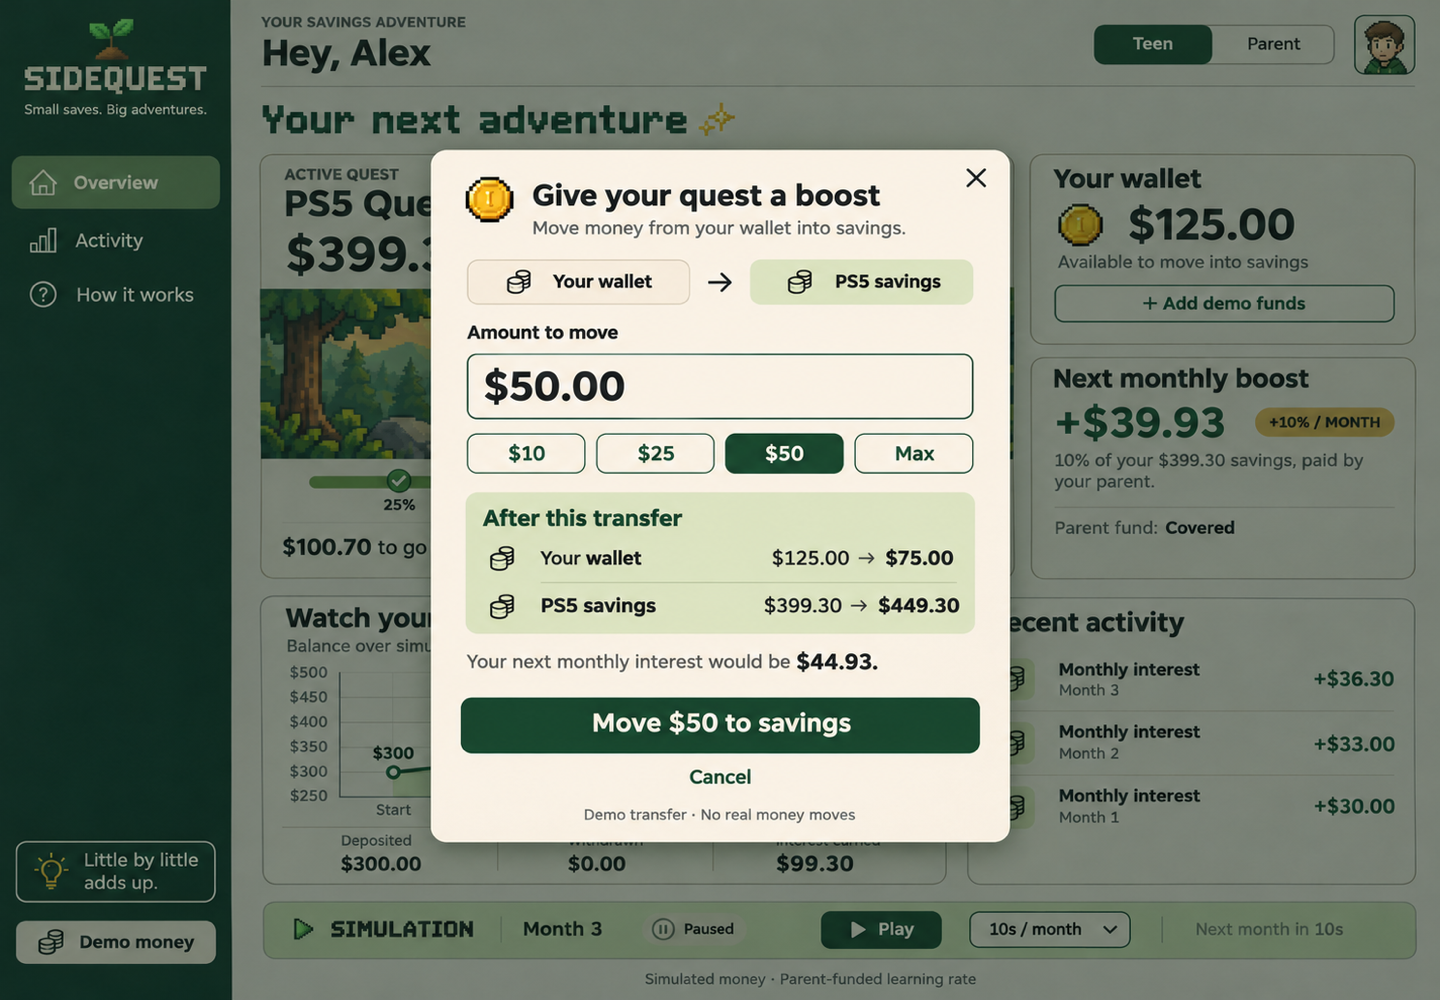
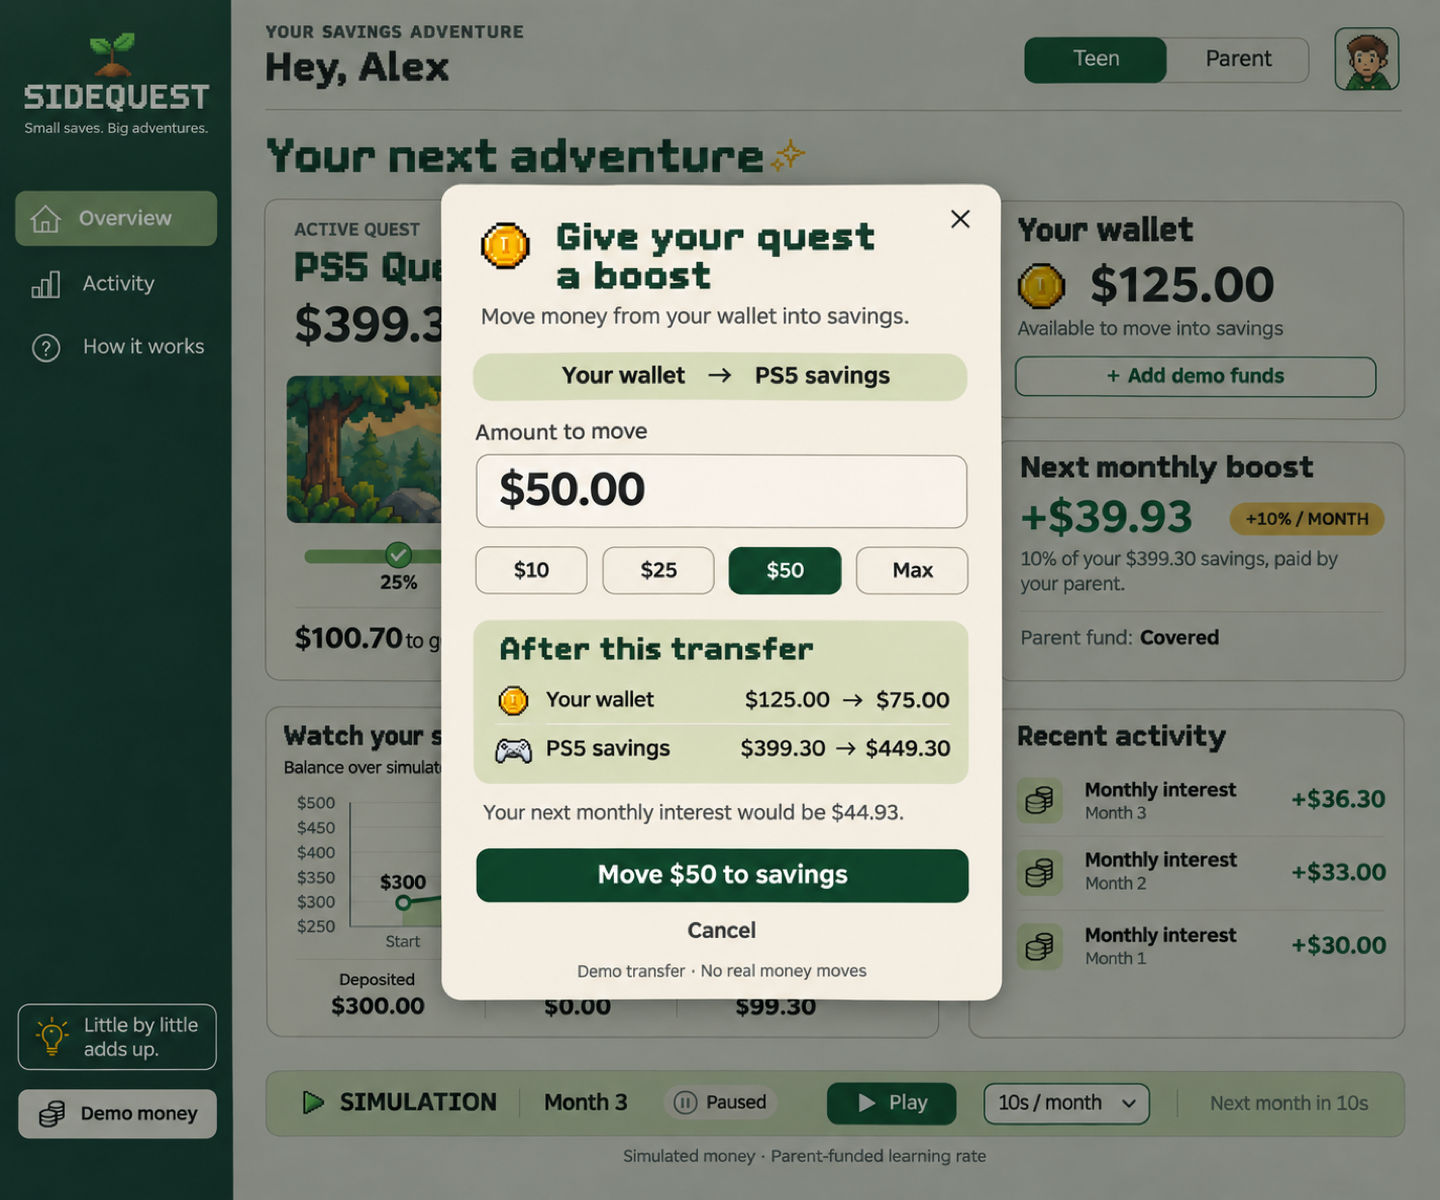
design: refine dashboard spacing and 8-bit heading hierarchy

diff --git a/design/index.html b/design/index.html
@@ -22,7 +22,7 @@
     .meta { color: #64705f; font-size: 12px; }
     .frame { display: block; border: 1px solid #bcc1b0; border-radius: 8px; overflow: hidden; background: #f5f2e9; box-shadow: 0 5px 16px #233f3509; }
     a:focus-visible { outline: 3px solid #233f35; outline-offset: 4px; }
-    img { display: block; width: 100%; height: auto; aspect-ratio: 1440/1000; }
+    img { display: block; width: 100%; height: auto; aspect-ratio: 1440/1200; }
     .note { margin: 9px 0 0; color: #59645a; font-size: 12px; line-height: 1.5; }
     footer { display: flex; justify-content: space-between; gap: 20px; border-top: 1px solid #c7ccbd; margin-top: 25px; padding-top: 16px; font-size: 12px; color: #64705f; }
     footer a { color: inherit; }
@@ -34,31 +34,31 @@
   <main>
     <header>
       <div>
-        <p class="eyebrow">SIDEQUEST / DESIGN EXPLORATION 01</p>
+        <p class="eyebrow">SIDEQUEST / DESIGN EXPLORATION 02</p>
         <h1>Small saves. Big adventures.</h1>
         <p class="subtitle">Cozy pixel adventures for teens. A clear financial overview for parents.</p>
       </div>
-      <div class="chips"><span class="chip">Cozy hybrid</span><span class="chip">1440 × 1000 frames</span><span class="chip">Static concepts</span></div>
+      <div class="chips"><span class="chip">Cozy hybrid</span><span class="chip">1440 × 1200 frames</span><span class="chip">Static concepts</span></div>
     </header>
     <section class="grid" aria-label="Four design frames">
       <figure>
         <figcaption><h2>01 / Teen dashboard</h2><span class="meta">Month 3 · Overview</span></figcaption>
-        <a class="frame" href="frames/01-teen-dashboard.png" aria-label="Open full-size teen dashboard"><img src="frames/01-teen-dashboard.png" alt="Teen savings dashboard with PS5 quest, forest artwork, $399.30 saved, $125 wallet, growth chart and simulation controls." width="1440" height="1000"></a>
+        <a class="frame" href="frames/01-teen-dashboard.png" aria-label="Open full-size teen dashboard"><img src="frames/01-teen-dashboard.png" alt="Teen savings dashboard with PS5 quest, forest artwork, $399.30 saved, $125 wallet, growth chart and simulation controls." width="1440" height="1200"></a>
         <p class="note">A pixel landscape frames the goal; balances, transfers and savings growth stay front and center.</p>
       </figure>
       <figure>
         <figcaption><h2>02 / Move money into savings</h2><span class="meta">Month 3 · Transfer preview</span></figcaption>
-        <a class="frame" href="frames/02-add-to-savings.png" aria-label="Open full-size savings transfer dialog"><img src="frames/02-add-to-savings.png" alt="Add to savings dialog previewing a $50 transfer, leaving $75 in the wallet and $449.30 in savings." width="1440" height="1000"></a>
+        <a class="frame" href="frames/02-add-to-savings.png" aria-label="Open full-size savings transfer dialog"><img src="frames/02-add-to-savings.png" alt="Add to savings dialog previewing a $50 transfer, leaving $75 in the wallet and $449.30 in savings." width="1440" height="1200"></a>
         <p class="note">A clear before-and-after preview connects today's deposit to the next month's interest.</p>
       </figure>
       <figure>
         <figcaption><h2>03 / Goal reached</h2><span class="meta">Month 6 · Purchase ready</span></figcaption>
-        <a class="frame" href="frames/03-goal-reached.png" aria-label="Open full-size goal reached frame"><img src="frames/03-goal-reached.png" alt="Completed PS5 quest with $531.47 saved, $231.47 interest earned, and a simulated $500 purchase action." width="1440" height="1000"></a>
+        <a class="frame" href="frames/03-goal-reached.png" aria-label="Open full-size goal reached frame"><img src="frames/03-goal-reached.png" alt="Completed PS5 quest with $531.47 saved, $231.47 interest earned, and a simulated $500 purchase action." width="1440" height="1200"></a>
         <p class="note">The full final interest payment clears the target. A purchase returns the $31.47 excess to the wallet.</p>
       </figure>
       <figure>
         <figcaption><h2>04 / Parent dashboard</h2><span class="meta">Month 3 · Family overview</span></figcaption>
-        <a class="frame" href="frames/04-parent-dashboard.png" aria-label="Open full-size parent dashboard"><img src="frames/04-parent-dashboard.png" alt="Parent dashboard showing $700 wallet, $200.70 reserved interest funding, $99.30 paid and a covered $39.93 next payment." width="1440" height="1000"></a>
+        <a class="frame" href="frames/04-parent-dashboard.png" aria-label="Open full-size parent dashboard"><img src="frames/04-parent-dashboard.png" alt="Parent dashboard showing $700 wallet, $200.70 reserved interest funding, $99.30 paid and a covered $39.93 next payment." width="1440" height="1200"></a>
         <p class="note">The same family brand with direct funding controls, transparent accounting and no game scenery.</p>
       </figure>
     </section>

diff --git a/design/README.md b/design/README.md
@@ -4,7 +4,7 @@ Four static desktop concepts for a family savings demo. This delivery contains d
 
 ## Review the designs
 
-Open `index.html` directly in a browser. It has no dependencies, external assets, scripts, analytics, or build step. Click an image to view the full-resolution frame. `contact-sheet.jpg` is the shareable overview.
+Open `index.html` directly in a browser. It has no dependencies, external assets, scripts, analytics, or build step. Click an image to view the full-resolution frame. `contact-sheet-v1.jpg` archives the original contact sheet; use the review board for the current revision.
 
 | Frame | File | State |
 | --- | --- | --- |
@@ -13,7 +13,7 @@ Open `index.html` directly in a browser. It has no dependencies, external assets
 | 03 · Goal reached | [03-goal-reached.png](frames/03-goal-reached.png) | Month 6, purchase ready |
 | 04 · Parent dashboard | [04-parent-dashboard.png](frames/04-parent-dashboard.png) | Same Month 3 balances as frame 01 |
 
-Each frame is exported at **1440 × 1000 pixels**. These are flattened raster concepts; the controls pictured inside them are illustrative. The review board rearranges the images on narrow screens, but separate mobile app frames have not been designed.
+Each frame is exported at **1440 × 1200 pixels**. These are flattened raster concepts; the controls pictured inside them are illustrative. The review board rearranges the images on narrow screens, but separate mobile app frames have not been designed.
 
 ## Visual system
 
@@ -28,7 +28,8 @@ Working brand: **Sidequest**. Tone: cozy, encouraging, and clear.
 | Body text | Charcoal `#24312B` |
 
 - Forest navigation and ivory content remain consistent across roles. Use fine borders, softly rounded cards, and generous spacing.
-- Pixel lettering belongs in the logo, teen quest headings, and milestone accents. Financial values, body copy, inputs, and buttons use readable sans-serif lettering.
+- All H1, H2, and H3 headings use one coherent 8-bit display family, including parent-view and dialog headings. Size and spacing establish the hierarchy. Subtitles, financial values, body copy, navigation, inputs, and buttons use one readable sans-serif family. The raster concepts suggest Pixelify Sans paired with Inter; exact font implementation remains future work.
+- Revision 2 uses a taller 1200px canvas with larger card insets, wider gutters, and more separation between headings, values, descriptions, and controls.
 - The teen goal contains an original pixel forest scene. An open chest and restrained sparkles mark completion. There are no XP scores, levels, leaderboards, or additional game currencies.
 - The parent view keeps the shared brand while using plain financial language, an initials avatar, conventional charts, and direct funding controls. It removes scenery and quest effects.
 - Progress is reinforced with values, labels, and checkmarks. Statuses such as Covered and Paused appear in text.
@@ -57,8 +58,8 @@ The next payment is only covered when the parent pool can pay the entire rounded
 
 ## Generation and verification
 
-Created with the **built-in image_gen tool**. Frame 01 established the visual system; frames 02–04 used it as an edit reference. The exact final generation prompts, reference relationship, and tool choice are saved in [prompts.json](prompts.json). No API-key or CLI fallback was used.
+Created with the **built-in image_gen tool**. Revision 2 refines spacing and applies 8-bit headings throughout. All four final frames used the spacious teen dashboard exploration as a shared edit reference. The exact final generation prompts, reference relationship, and tool choice are saved in [prompts.json](prompts.json). No API-key or CLI fallback was used.
 
-The native generated outputs were uniformly exported to the planned 1440 × 1000 canvas. The contact sheet is a browser screenshot of the static review board; it assembles the exact exported frames without regenerating their content.
+The native generated outputs were uniformly exported to the planned 1440 × 1200 canvas. The archived version-1 contact sheet is a browser screenshot of the original review board. It is retained for comparison and does not represent the current revision. No further image generation or contact-sheet rendering was performed after the user asked to stop.
 
-Verified all four images load in the review board at 1440 × 1000, the desktop board has no horizontal overflow, and the savings, transfer-preview, interest-fund, and purchase figures agree with the example above. Visually reviewed layout, text, role consistency, and the calm parent treatment. Exact font selection, responsive application behavior, keyboard interactions, contrast measurements, and motion remain implementation work.
+Revision 1 was verified in-browser for image loading and desktop overflow. Revision 2 exports are 1440 × 1200, its review board dimensions are updated, and the example accounting is unchanged. Revision 2 was visually reviewed from generated outputs; no new browser verification was performed after the stop request. Visually reviewed layout, text, role consistency, and the calm parent treatment. Exact font selection, responsive application behavior, keyboard interactions, contrast measurements, and motion remain implementation work.
